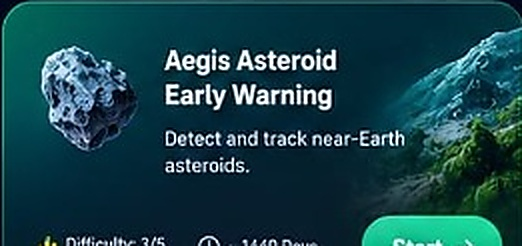
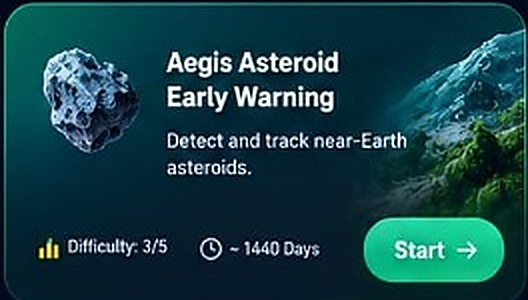
Show complete full card photos: crop full height including bottom difficulty and Start buttons without any cutoff

diff --git a/css/styles.css b/css/styles.css
@@ -4610,14 +4610,13 @@ body {
 .challenge-card {
   position: relative;
   background: rgba(11, 20, 42, 0.72);
-  border: 1px solid rgba(255, 255, 255, 0.1);
+  border: 1px solid rgba(255, 255, 255, 0.12);
   border-radius: 18px;
   overflow: hidden;
   display: block;
   transition: all 0.3s cubic-bezier(0.16, 1, 0.3, 1);
   box-shadow: 0 4px 20px rgba(0, 0, 0, 0.35);
   cursor: pointer;
-  aspect-ratio: 530 / 248;
 }
 
 .challenge-card:hover {
@@ -4627,10 +4626,9 @@ body {
 
 .card-full-img {
   width: 100%;
-  height: 100%;
+  height: auto;
   display: block;
-  object-fit: cover;
-  border-radius: 18px;
+  border-radius: 17px;
   transition: transform 0.35s ease;
   pointer-events: none;
 }
@@ -4643,8 +4641,8 @@ body {
   position: absolute;
   right: 8px;
   bottom: 8px;
-  width: 86px;
-  height: 34px;
+  width: 90px;
+  height: 38px;
   opacity: 0;
   cursor: pointer;
   border: none;
